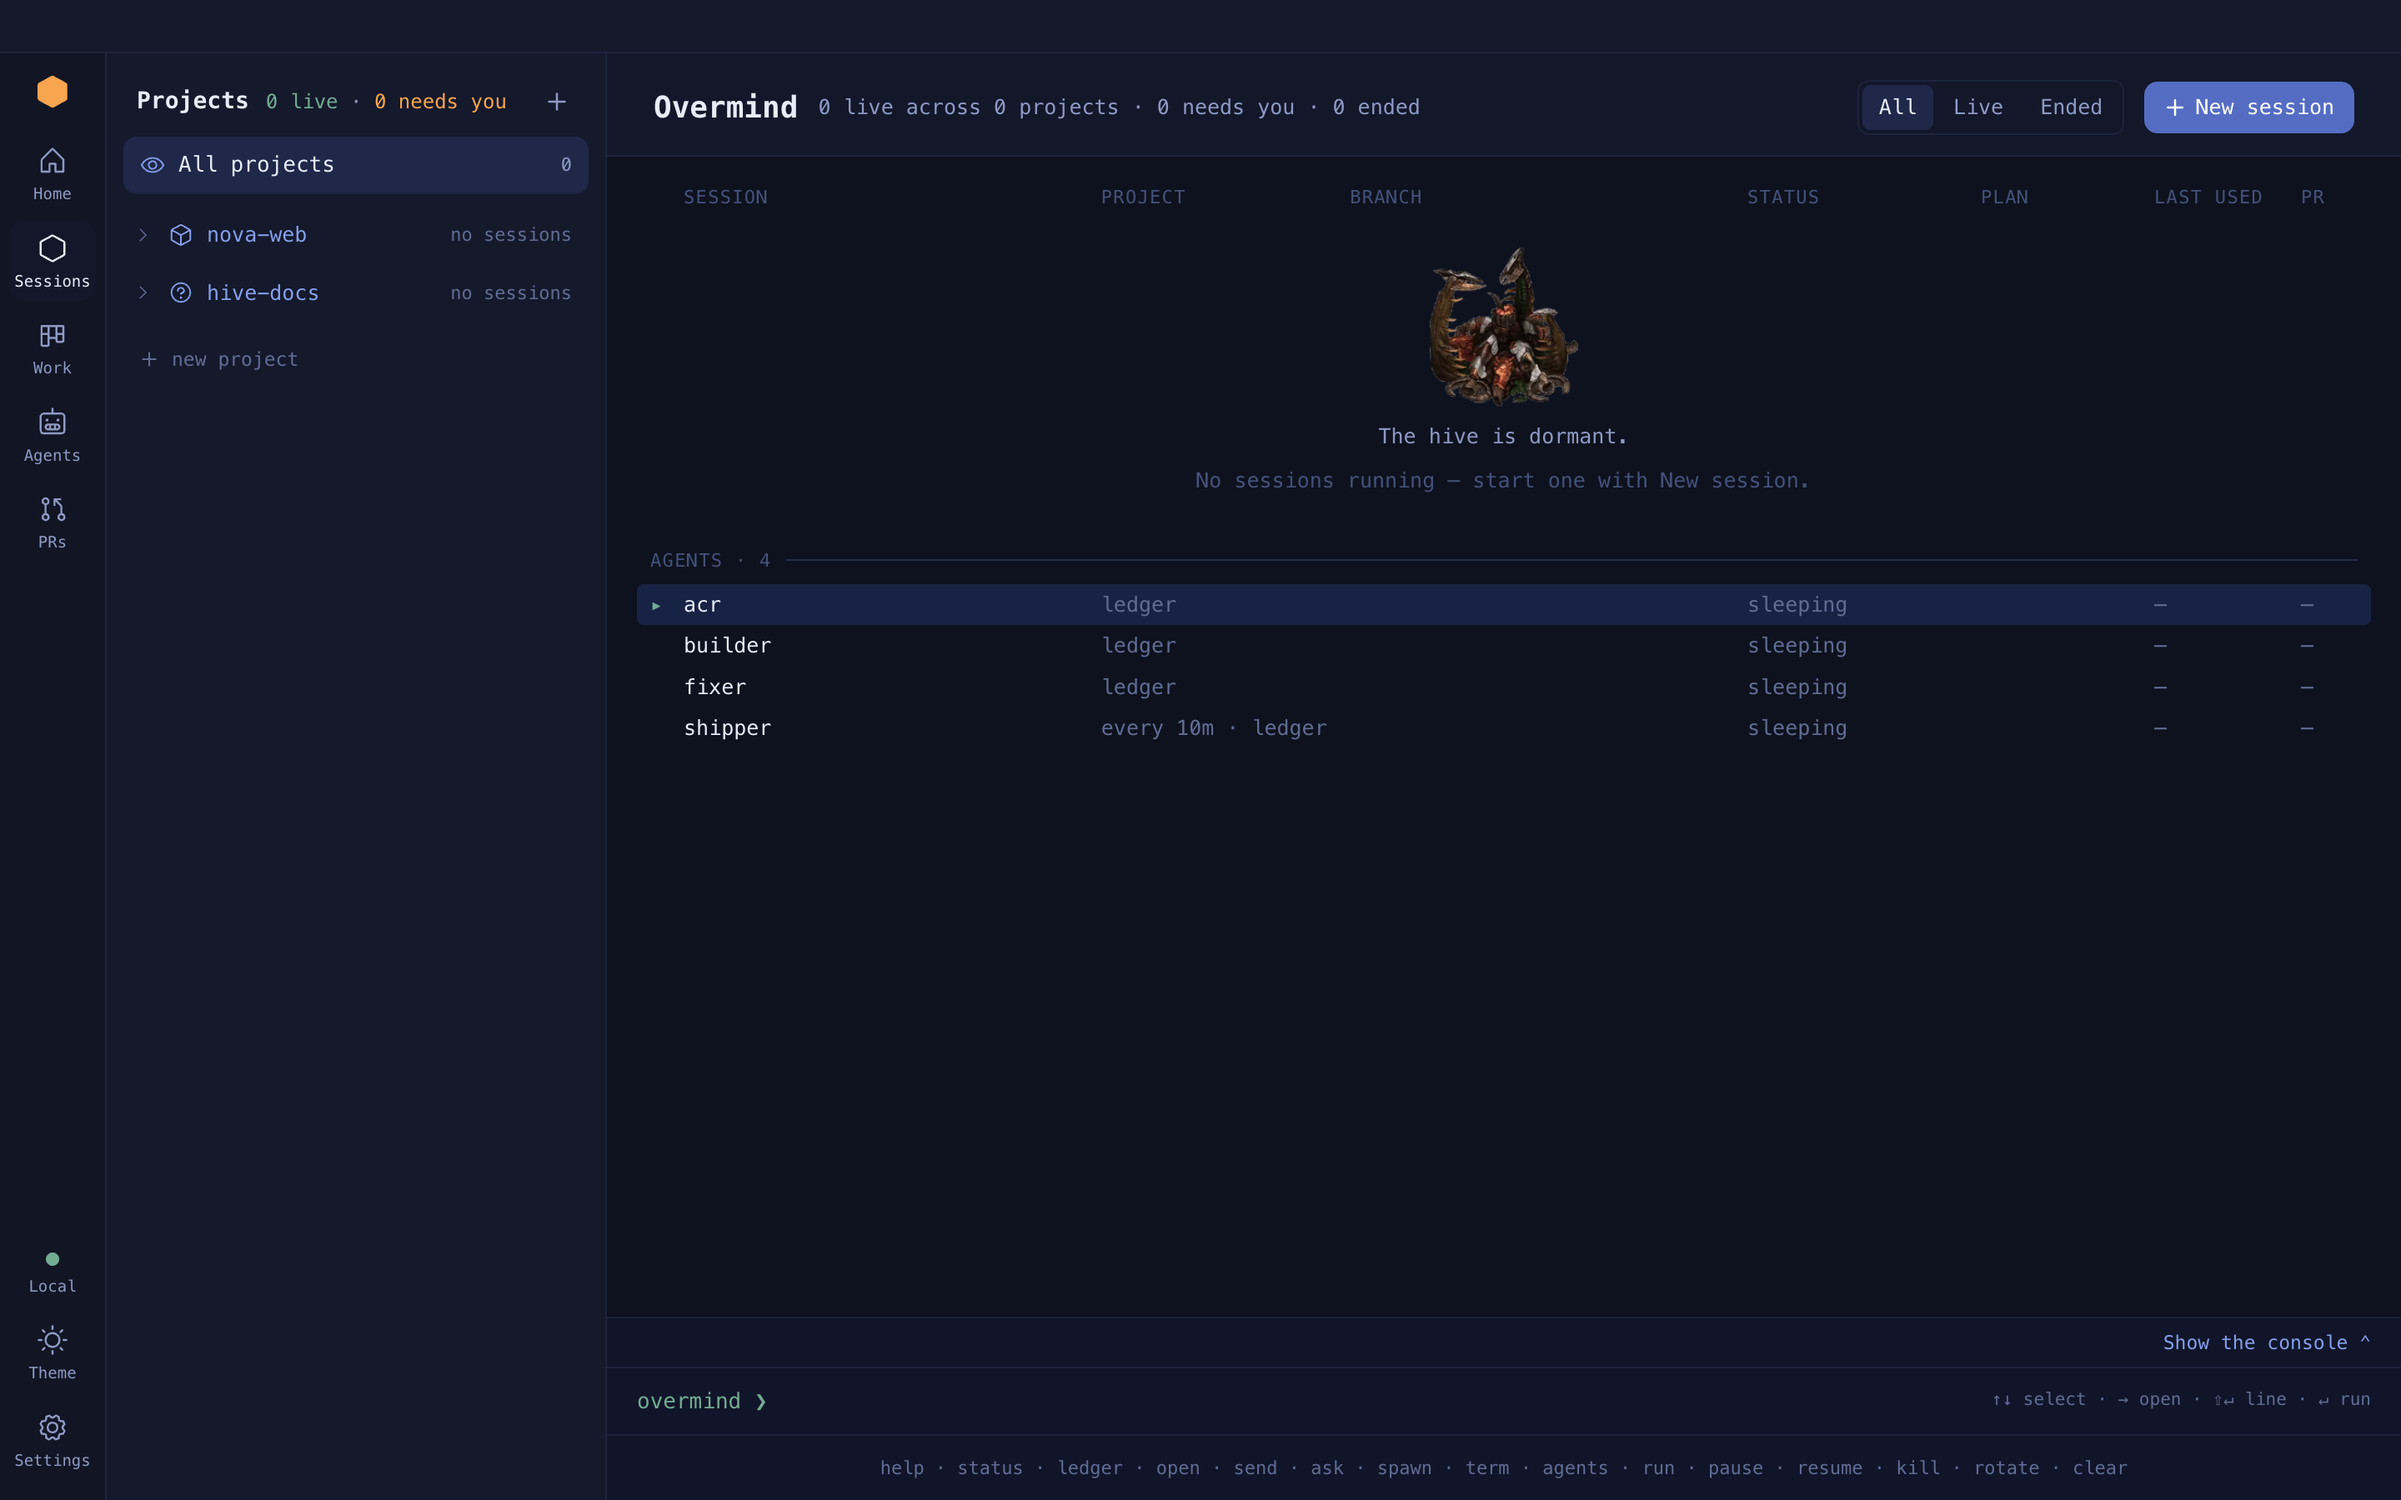
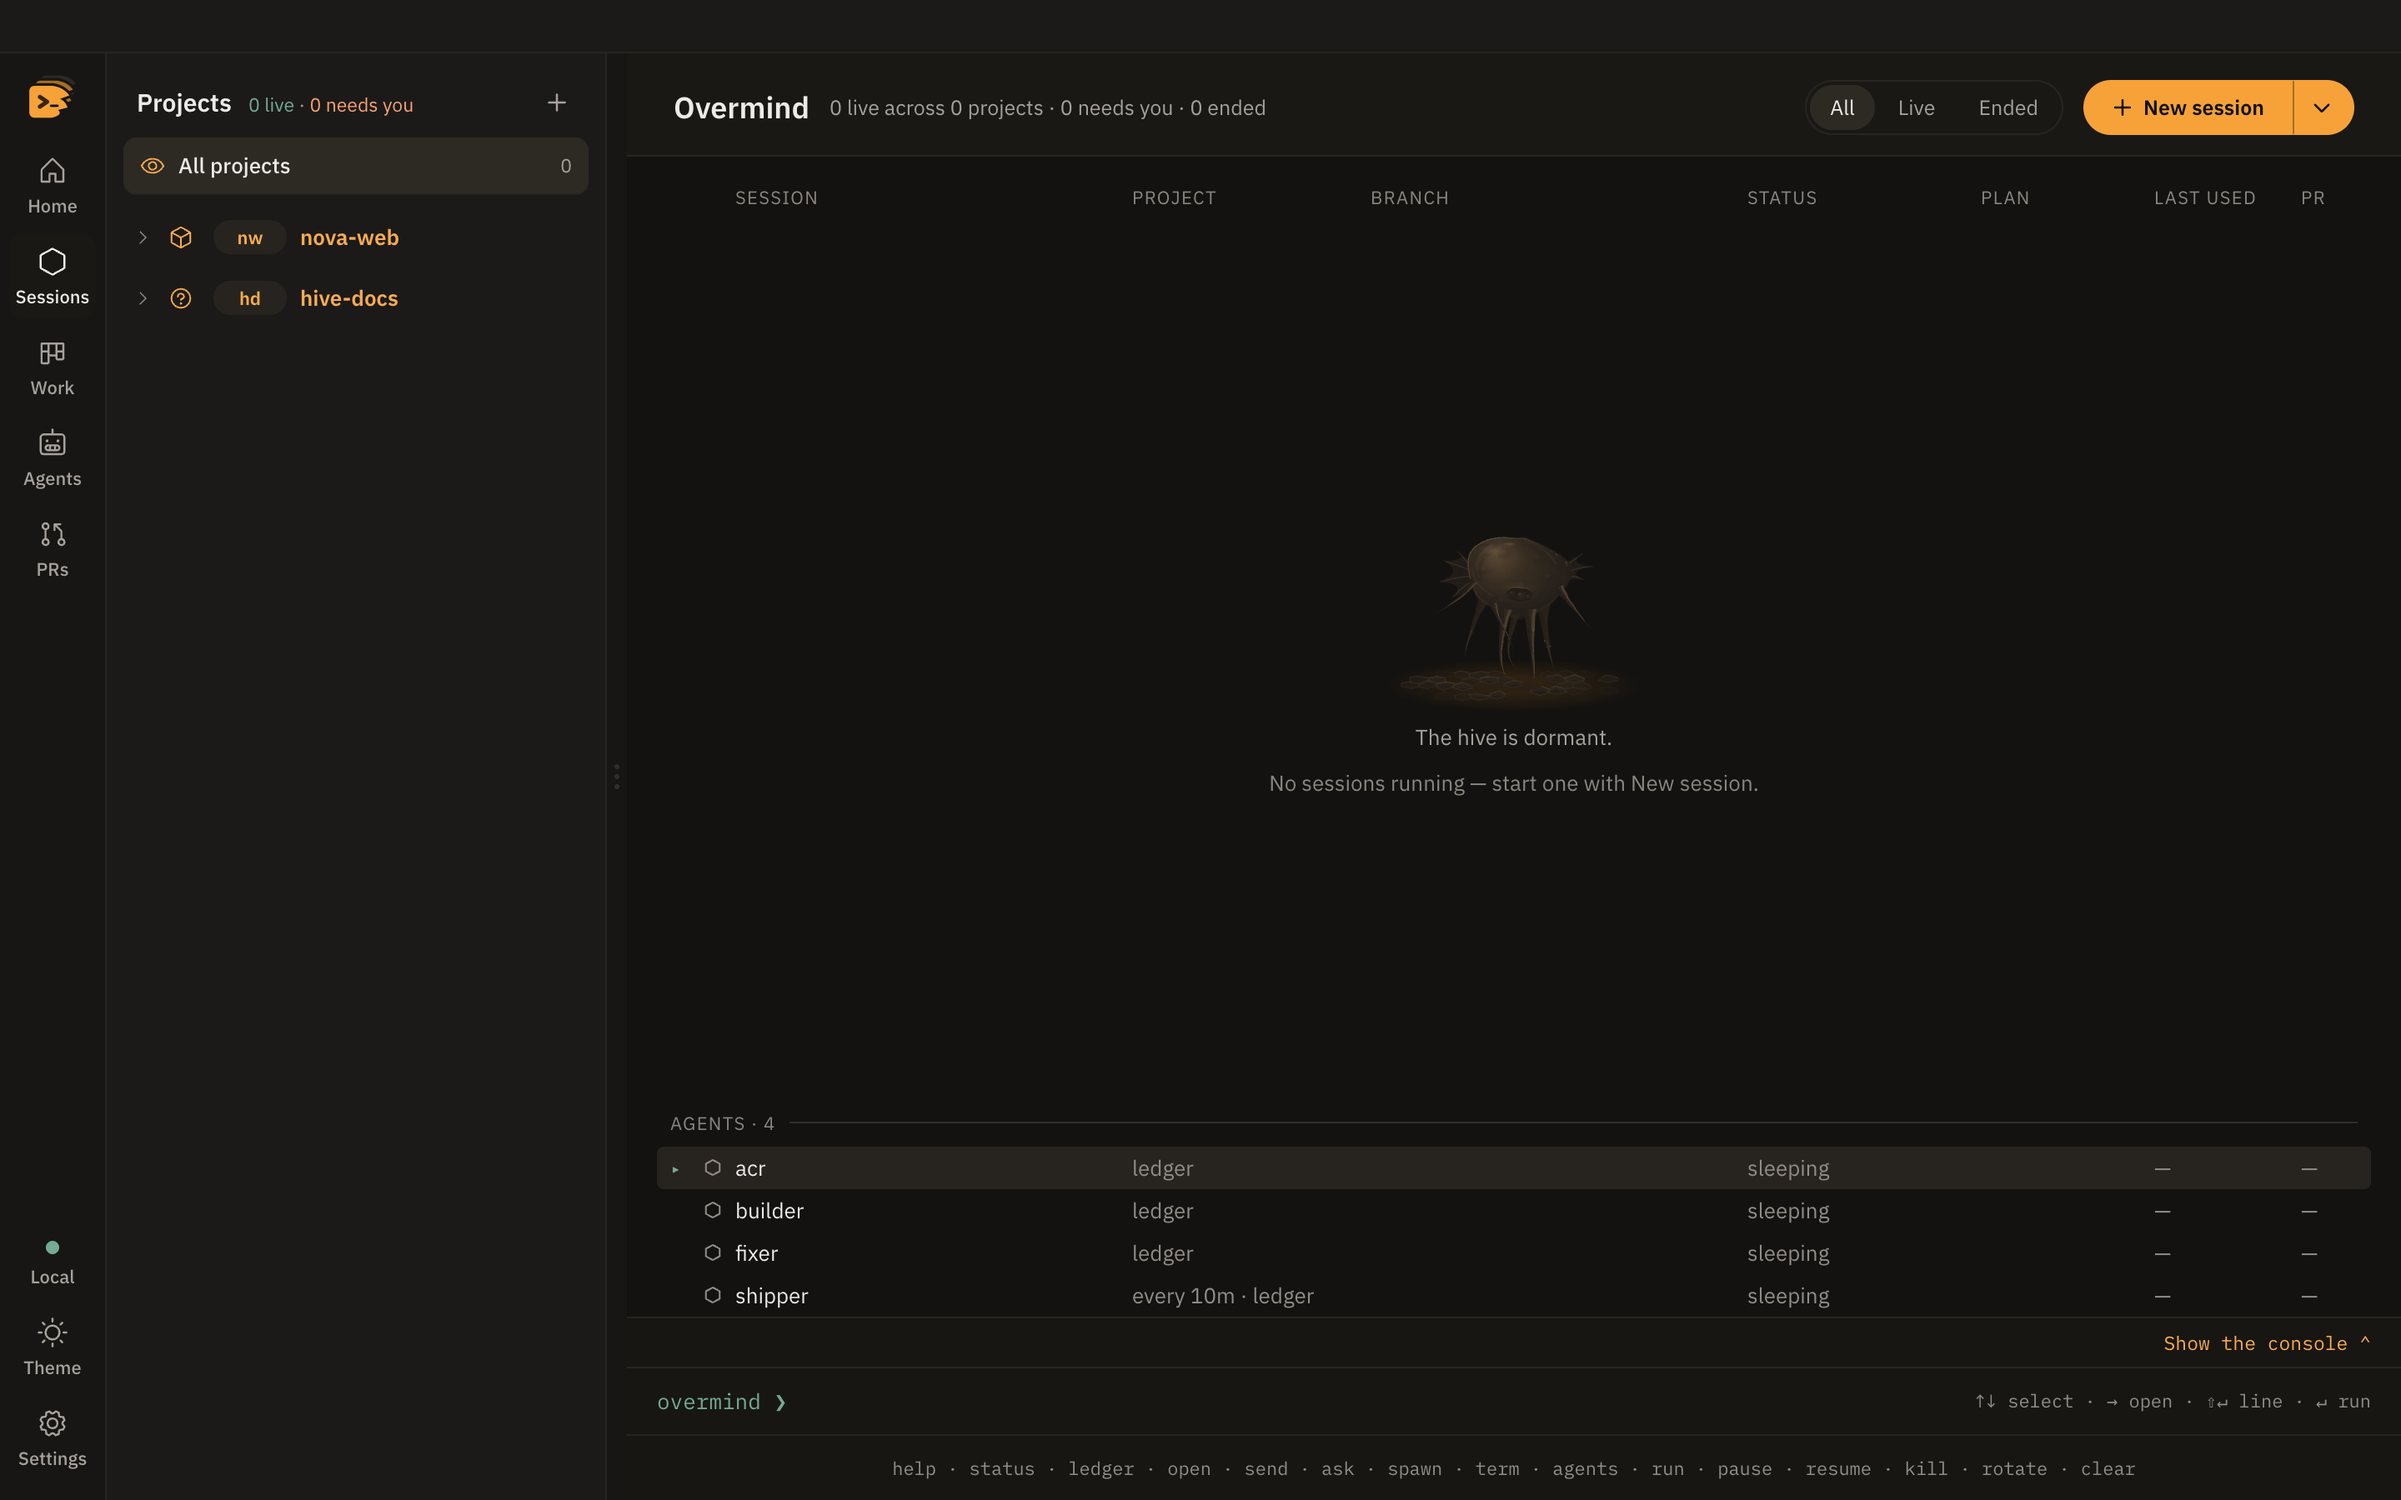
docs: HiveTTY is the default theme, Creep the eighth; retake the guide shots (HIVE-241)

diff --git a/electron/main/hooks/settings.ts b/electron/main/hooks/settings.ts
@@ -142,8 +142,8 @@ interface HookSettings {
    *
    * **Pinned rather than paired with `light-ansi`.** Its slot choices are the
    * ones `xtermThemeFor` already resolves correctly in both modes —
-   * `text: ansi:whiteBright` → `palette.ink`, which is `#dbe4ff` on dark and
-   * `#2c2f34` on light. `light-ansi` would be wrong the moment the app went
+   * `text: ansi:whiteBright` → `palette.ink`, which is `#fae0c1` on dark and
+   * `#312e2c` on light. `light-ansi` would be wrong the moment the app went
    * dark: its `text: ansi:black` resolves to the palette's surface.
    *
    * The counterpart is in `ansi.ts`: `black` and `brightBlack` had to stop

diff --git a/tests/e2e/electron/guide-shots.spec.ts b/tests/e2e/electron/guide-shots.spec.ts
@@ -168,7 +168,9 @@ test('guide shots', async ({}, testInfo) => {
   await page.getByRole('radio', { name: 'Source' }).click();
   await expect(page.locator('.cm-editor')).toBeVisible();
   await shot(page, '04-explorer-editor.png');
-  await page.getByRole('button', { name: 'Close README.md' }).click();
+  // The tab's × is aria-hidden (the tab strip's keyboard model closes tabs
+  // another way), so it has a title and no accessible name.
+  await page.getByTitle('Close README.md').click();
 
   // 08: the Overmind with its console open and the help output.
   await openConsole(page);

diff --git a/src/lib/terminal/ansi.ts b/src/lib/terminal/ansi.ts
@@ -205,7 +205,7 @@ export const SGR_RESET = `${ESC}[0m`;
  * is emitted; xterm stores that RGB value in the cell and no later change of
  * `terminal.options.theme` can reach it. An index stores the *slot*, and the
  * slot is resolved against the active theme at paint time — so the same
- * scrollback renders pastel-on-navy in dark mode and ink-on-paper in light,
+ * scrollback renders pastel-on-carbon in dark mode and ink-on-paper in light,
  * with nothing rewritten.
  *
  * `ink` maps to 39 (default foreground) rather than to white, so a line the

diff --git a/docs/guide/themes.md b/docs/guide/themes.md
@@ -9,19 +9,19 @@ light and a dark mode. The sun or moon at the foot of the bar switches between t
 
 ## Pick a theme
 
-**Settings › Appearance › Themes**. Seven ship with the app: Hive, Honeycomb, Graphite,
-Tidewater, Terracotta, Porcelain and Cinder. Click a card to use it. The
+**Settings › Appearance › Themes**. Eight ship with the app: HiveTTY, Honeycomb, Graphite,
+Tidewater, Terracotta, Porcelain, Cinder and Creep. Click a card to use it. The
 card menu has **Export…** and, for imported themes, **Remove**.
 
 ![Settings › Appearance: the theme gallery](../assets/guide/12-settings-appearance.png)
 
 **Mode** chooses System, Dark or Light. With System, the app follows macOS.
 
-![The Hive theme in light mode](../assets/guide/22-light-theme.png)
+![The HiveTTY theme in light mode](../assets/guide/22-light-theme.png)
 
 ## Import your own
 
-1. **Download template** saves `hive-theme-template.json`: a full copy of the Hive theme named
+1. **Download template** saves `hive-theme-template.json`: a full copy of the HiveTTY theme named
    "My theme".
 2. Change the colours you want.
 3. **Import theme…** and pick the file.
@@ -56,7 +56,7 @@ template is easiest.
 
 `ui.creep` and `ui.chitin` colour Home's comb creatures. They are optional: a theme without them
 imports with no warning, and the app derives both from the theme's own background, brand and ink,
-so its creatures match it rather than the Hive's violet.
+so its creatures match it rather than HiveTTY's amber.
 
 `ui.tissueDeep`, `ui.tissue` and `ui.tissueLit` are the Brood creatures' flesh in shadow, mid tone
 and light; `ui.glowCore` is the hot centre of their green glow (the glow itself is `ui.green`); and

diff --git a/resources/README.md b/resources/README.md
@@ -2,7 +2,7 @@
 
 A stack of carapace plates carrying a prompt: three overlapping scutes — smooth
 on the leading edge, two hooked spines trailing — receding up and to the right,
-with a pale chevron and a white cursor on the front plate. One plate per
+with a dark chevron and a dark cursor on the front plate. One plate per
 session, the front one live.
 
 The hive this app is named for is the **Zerg** structure, not a beehive, and the

diff --git a/docs/guide/tour.md b/docs/guide/tour.md
@@ -98,7 +98,7 @@ A tab appears only when the session has that thing. Close the panel with **›**
 becomes a strip of icons, each with one fact, such as `2 files changed`. Click one to open the
 panel on that tab.
 
-![The same window in the Hive theme's light mode](../assets/guide/22-light-theme.png)
+![The same window in the HiveTTY theme's light mode](../assets/guide/22-light-theme.png)
 
 ## The pill and the drawer
 
